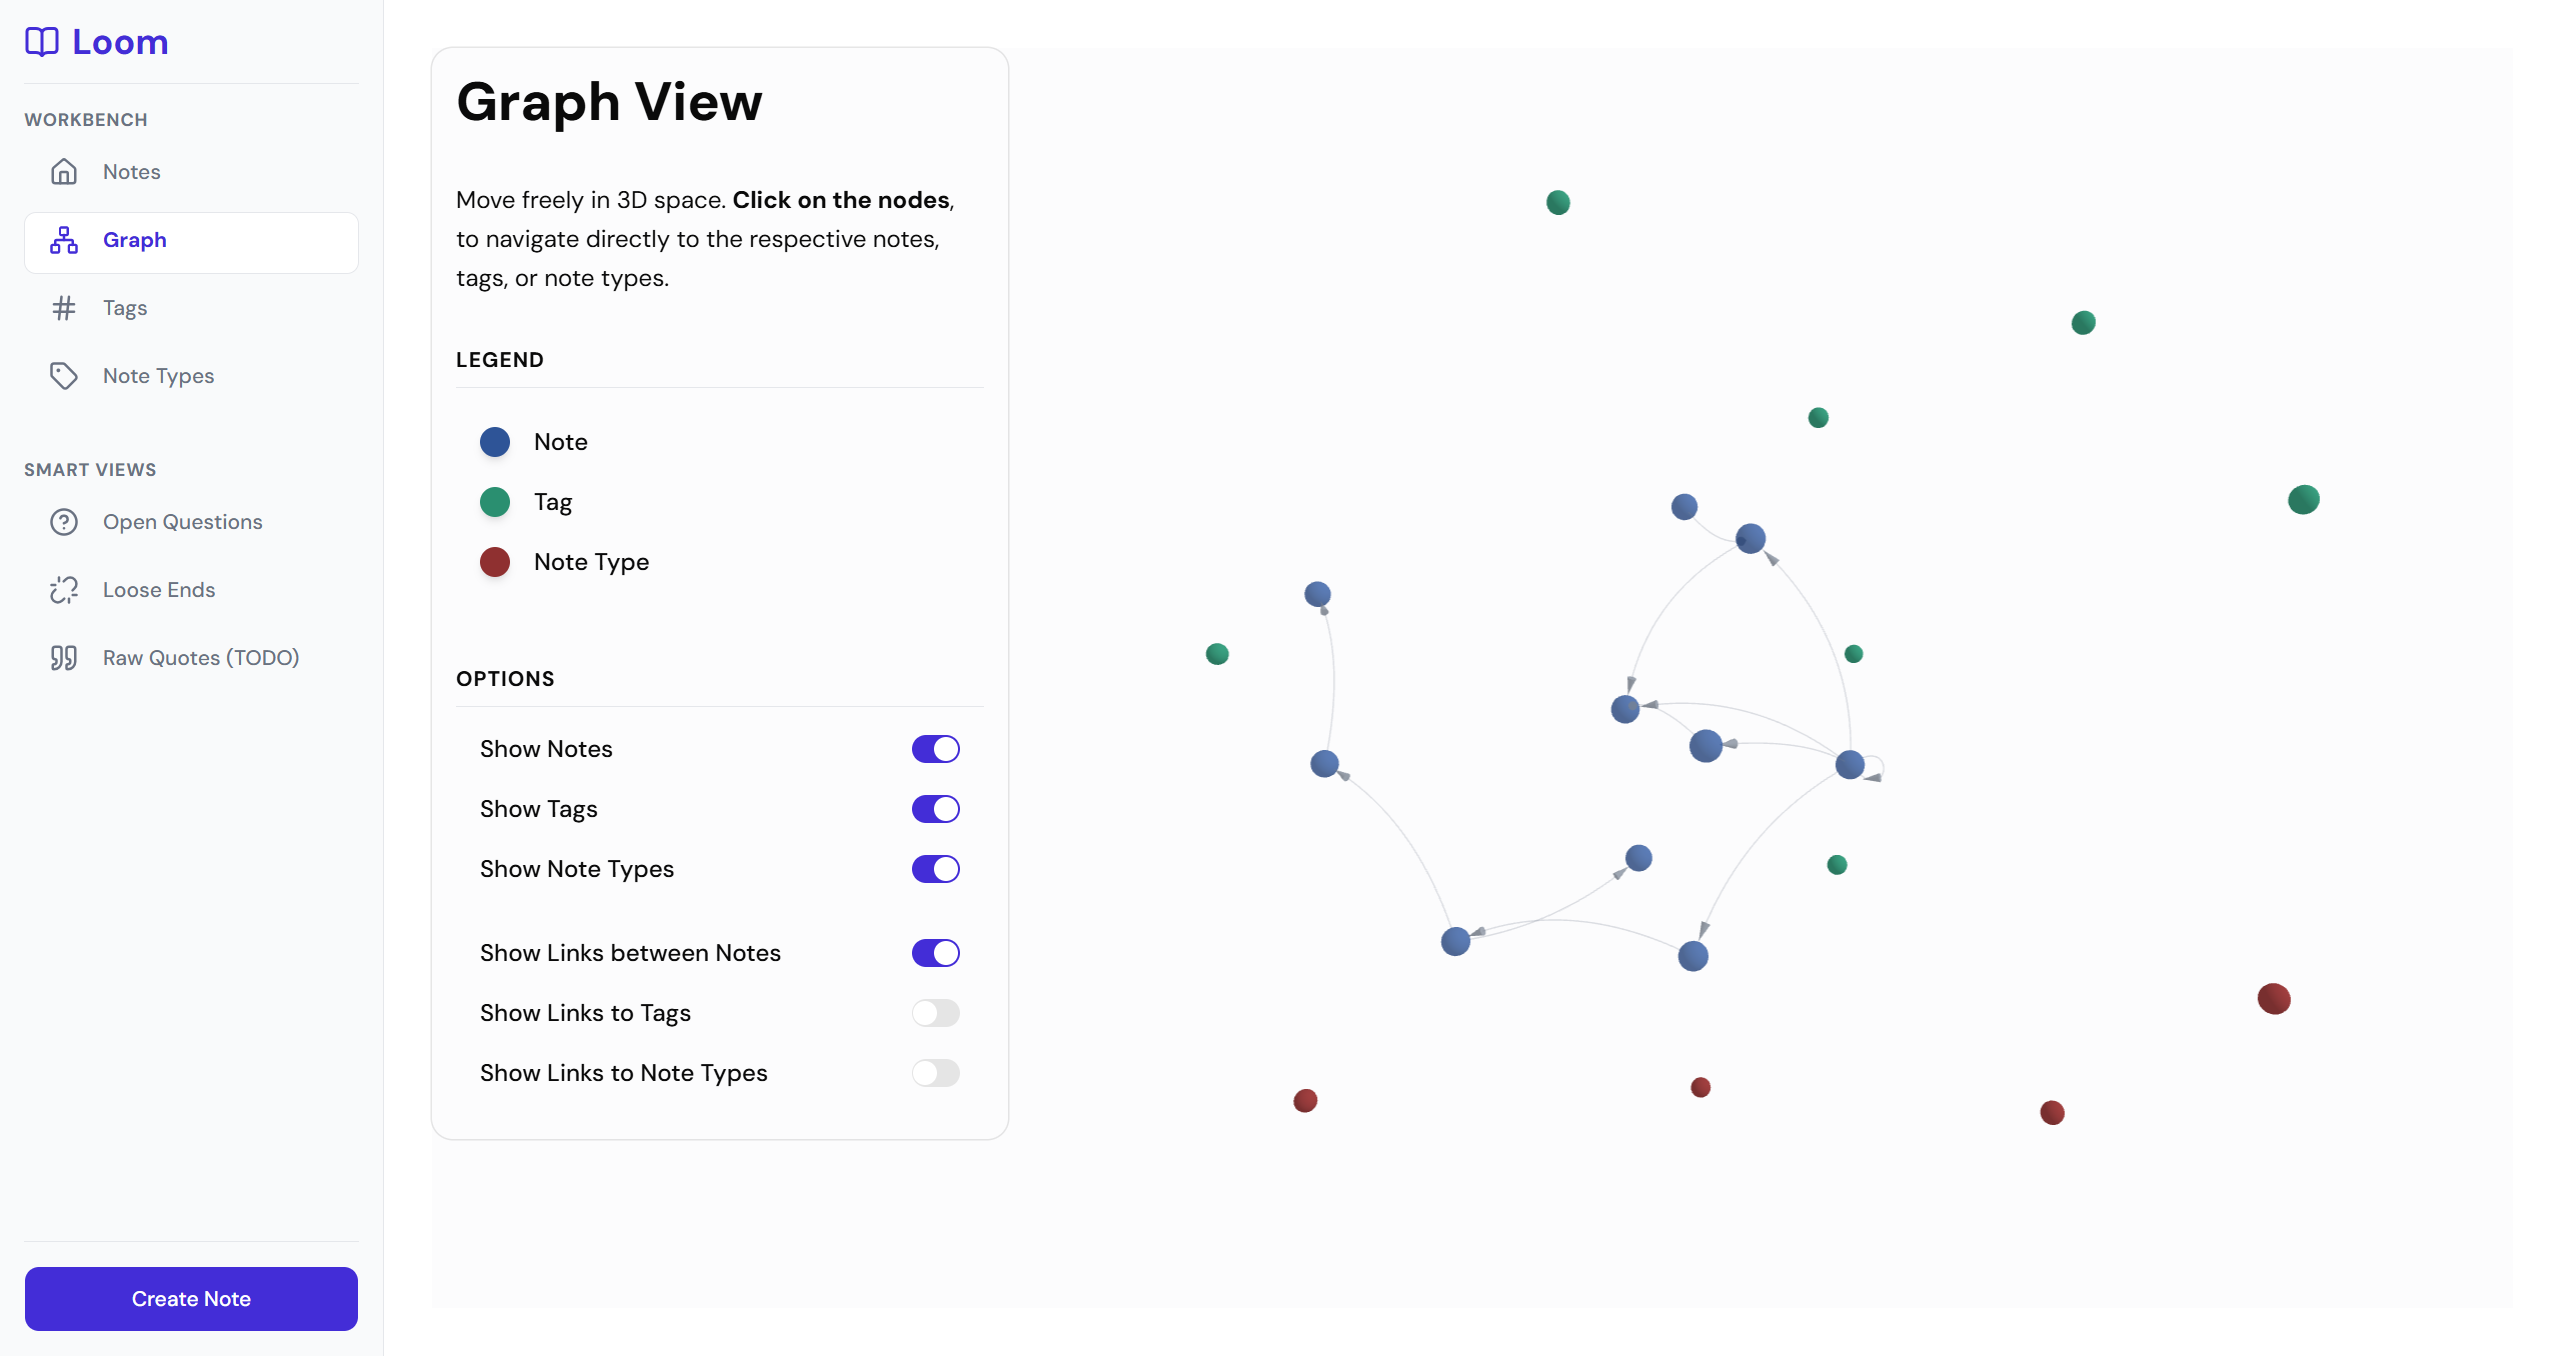
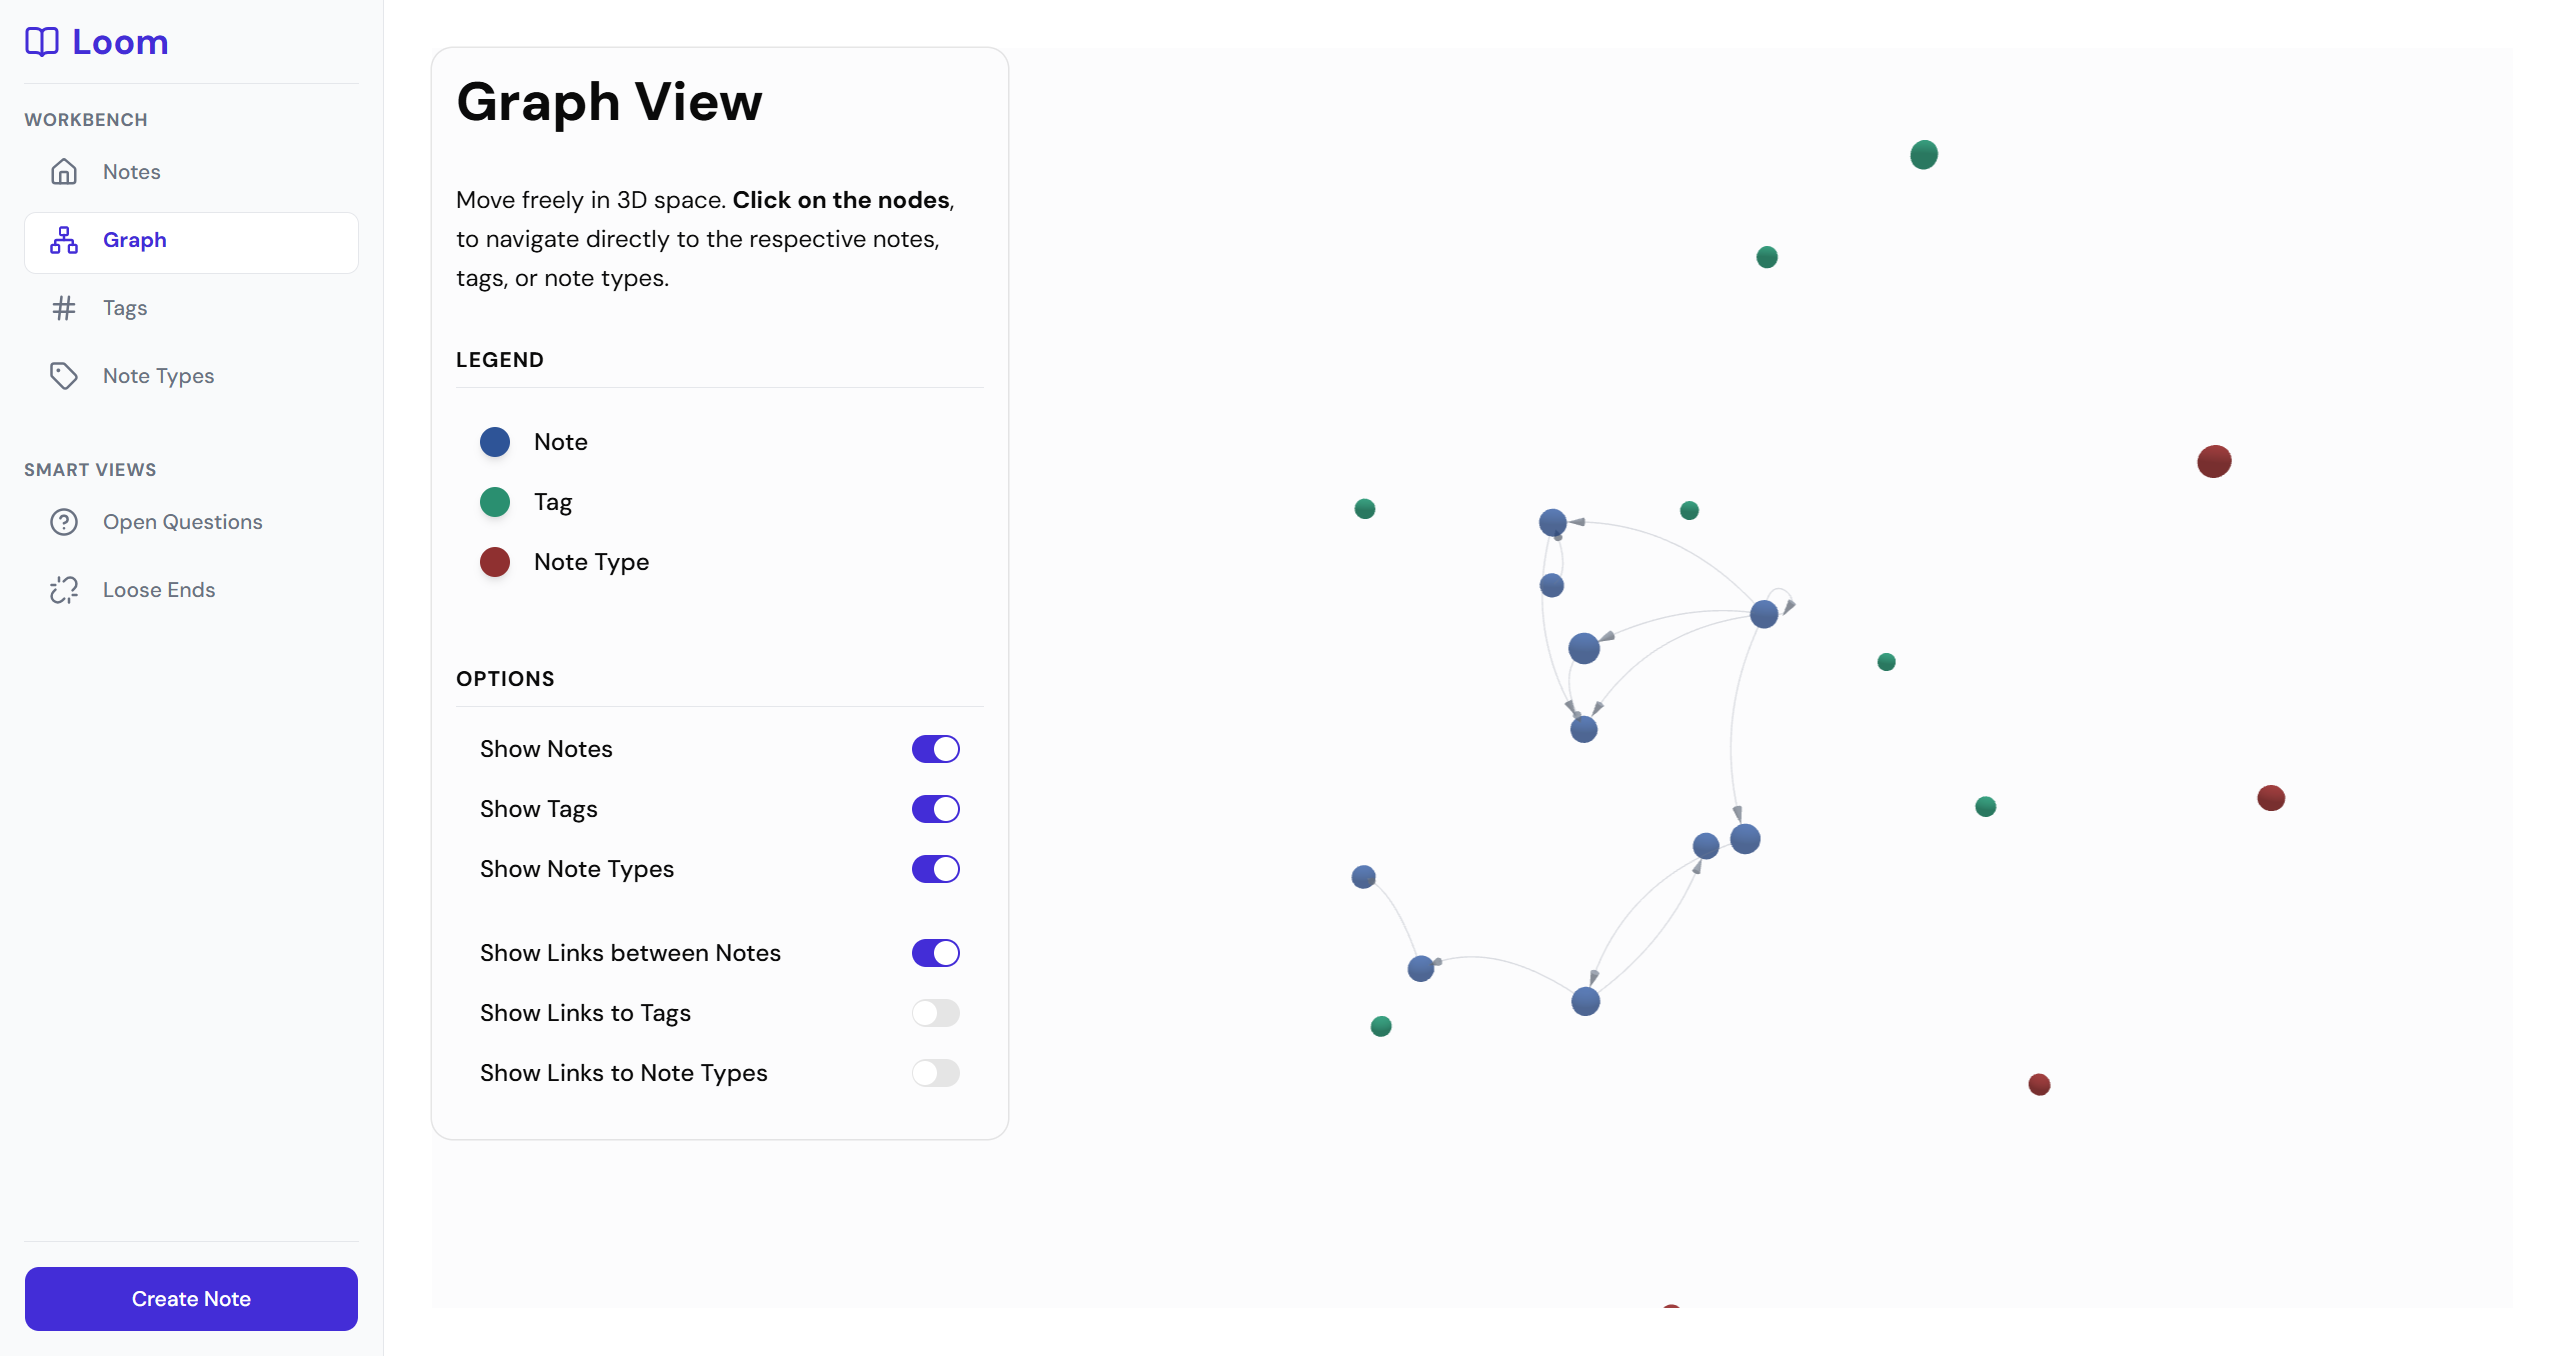
Removing Quotes todo

diff --git a/frontend/src/components/layout/sidebar/SidebarNavigation.ts b/frontend/src/components/layout/sidebar/SidebarNavigation.ts
@@ -3,7 +3,6 @@ import {
   Network,
   HelpCircle,
   Unlink,
-  Quote,
   Hash,
   Tag,
   type LucideIcon,
@@ -36,5 +35,4 @@ export const mainNavItems: SidebarItemConfig[] = [
 export const smartViewsConfig: SidebarItemConfig[] = [
   { label: "Open Questions", icon: HelpCircle, path: "/?status=open" },
   { label: "Loose Ends", icon: Unlink, path: "/?is_loose_end=true" },
-  { label: "Raw Quotes (TODO)", icon: Quote, path: "/todo?raw-quotes" },
 ];
